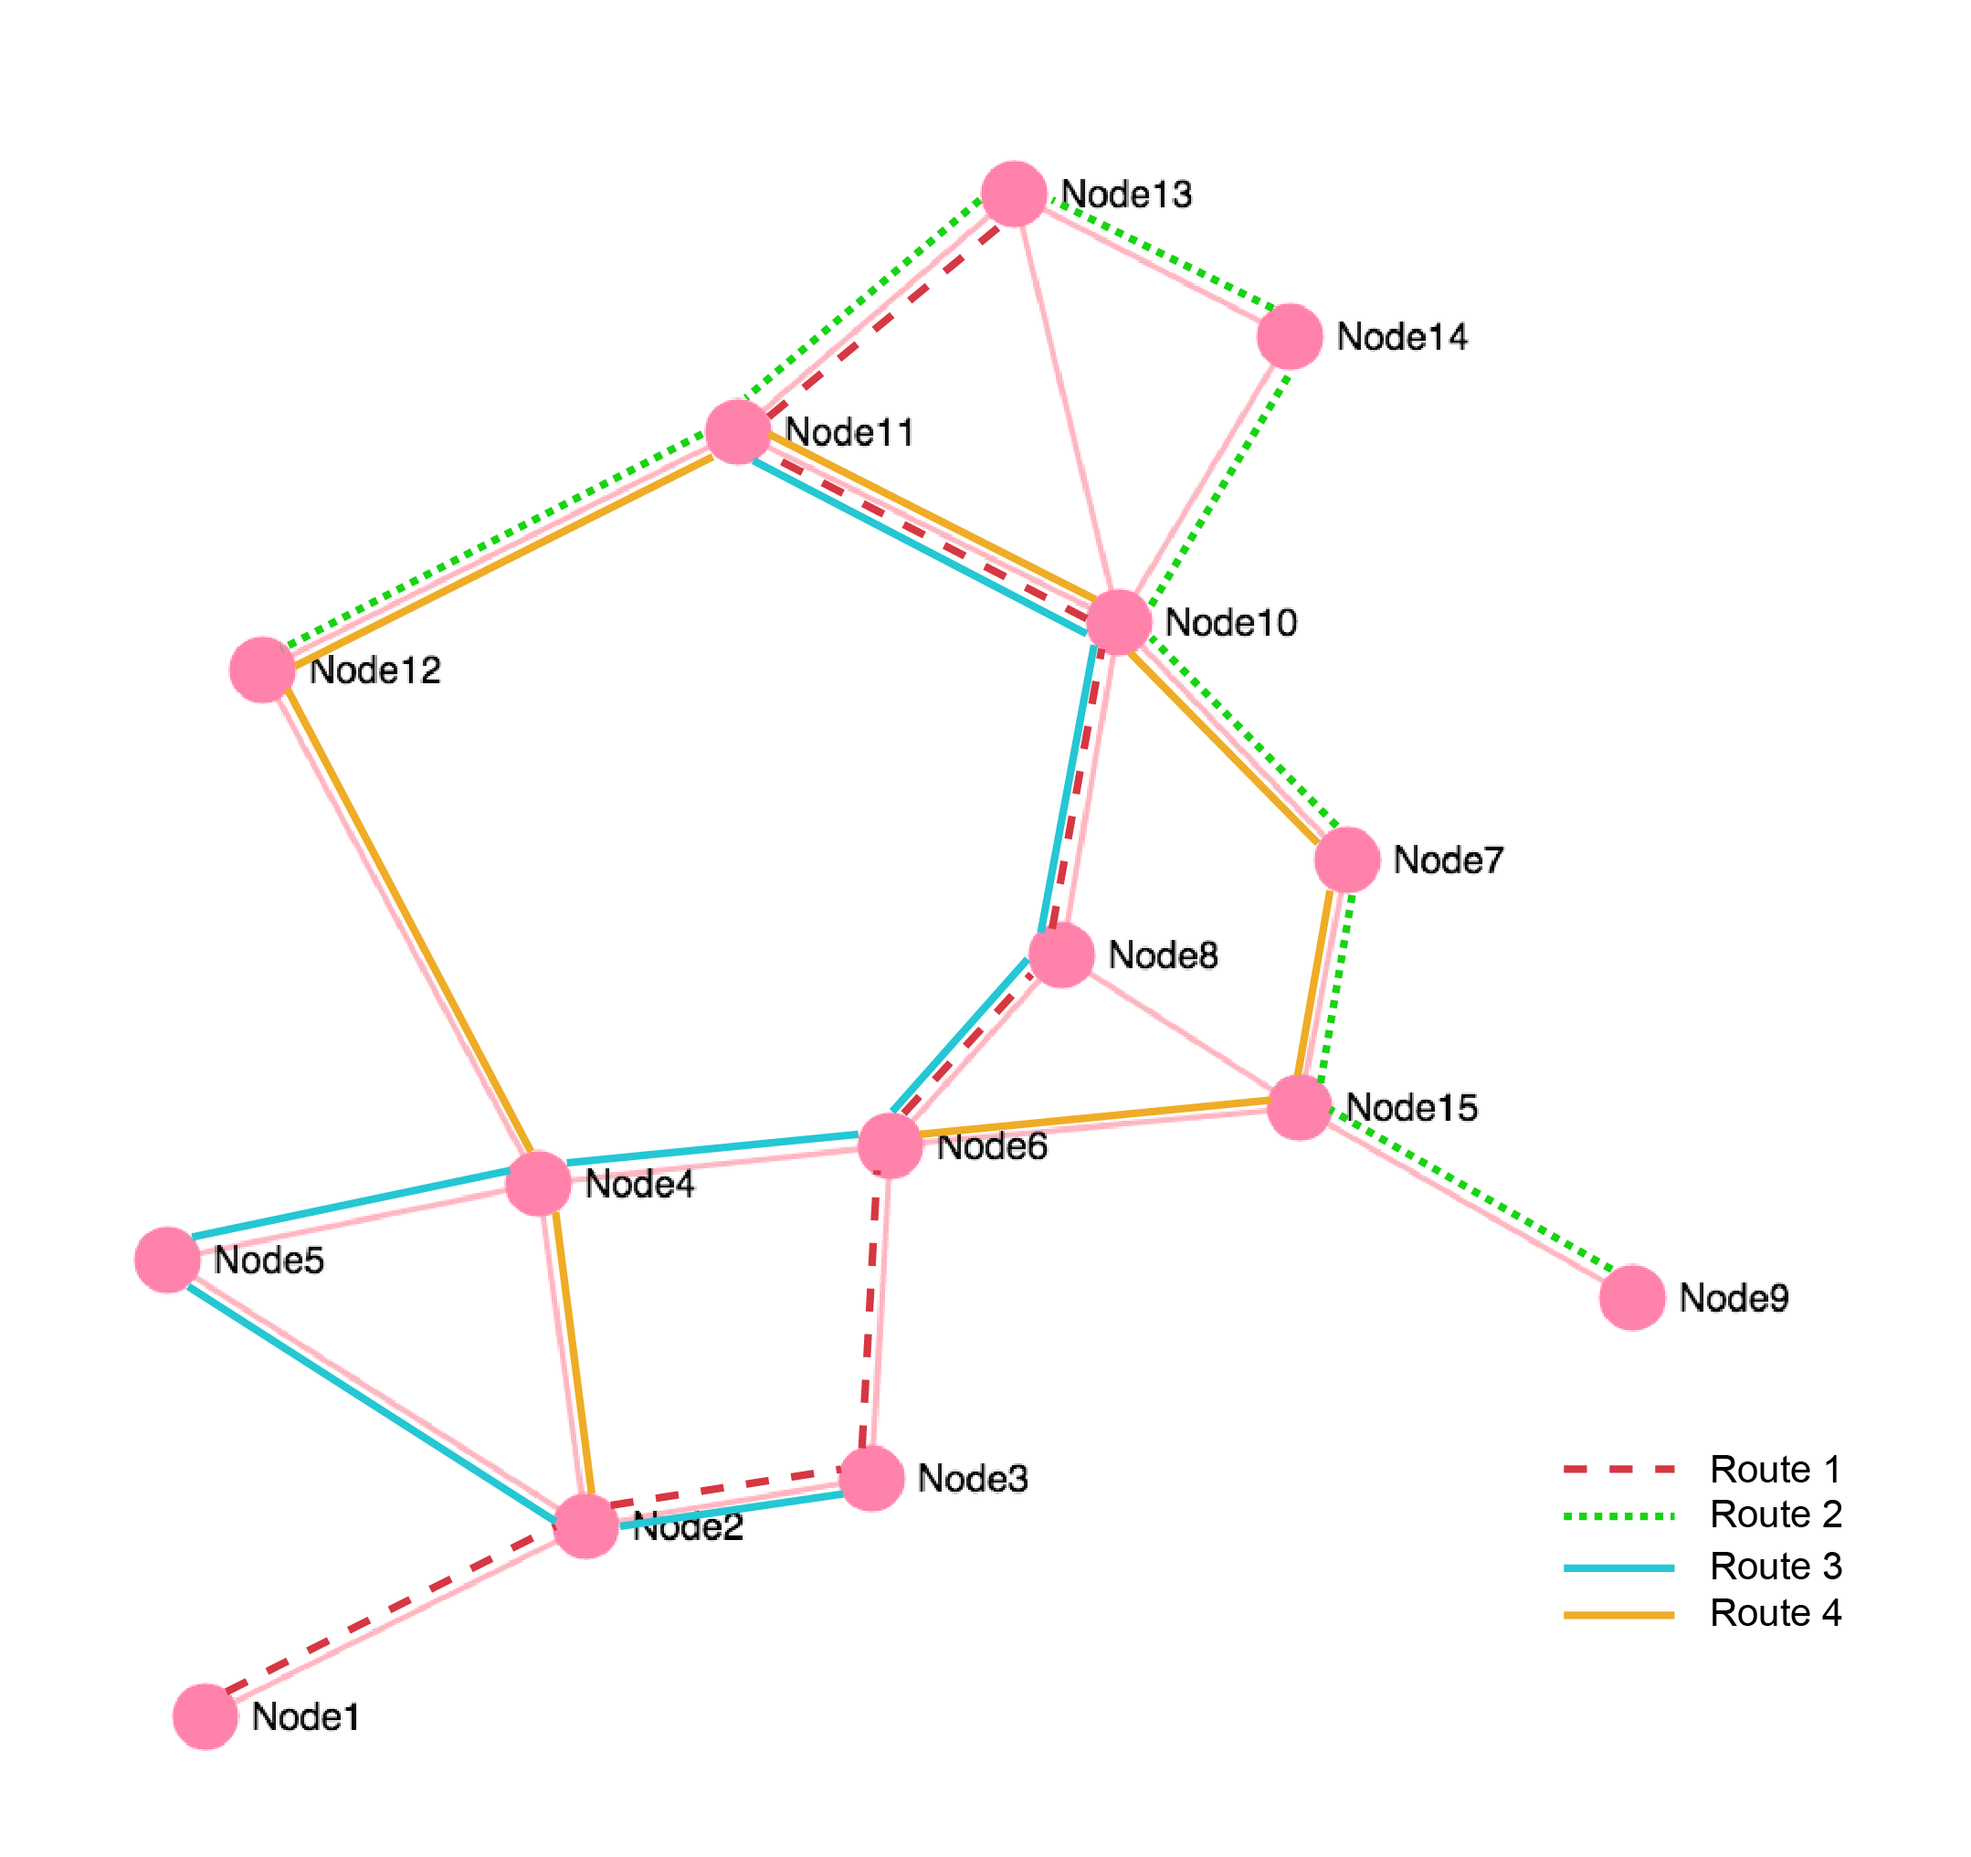
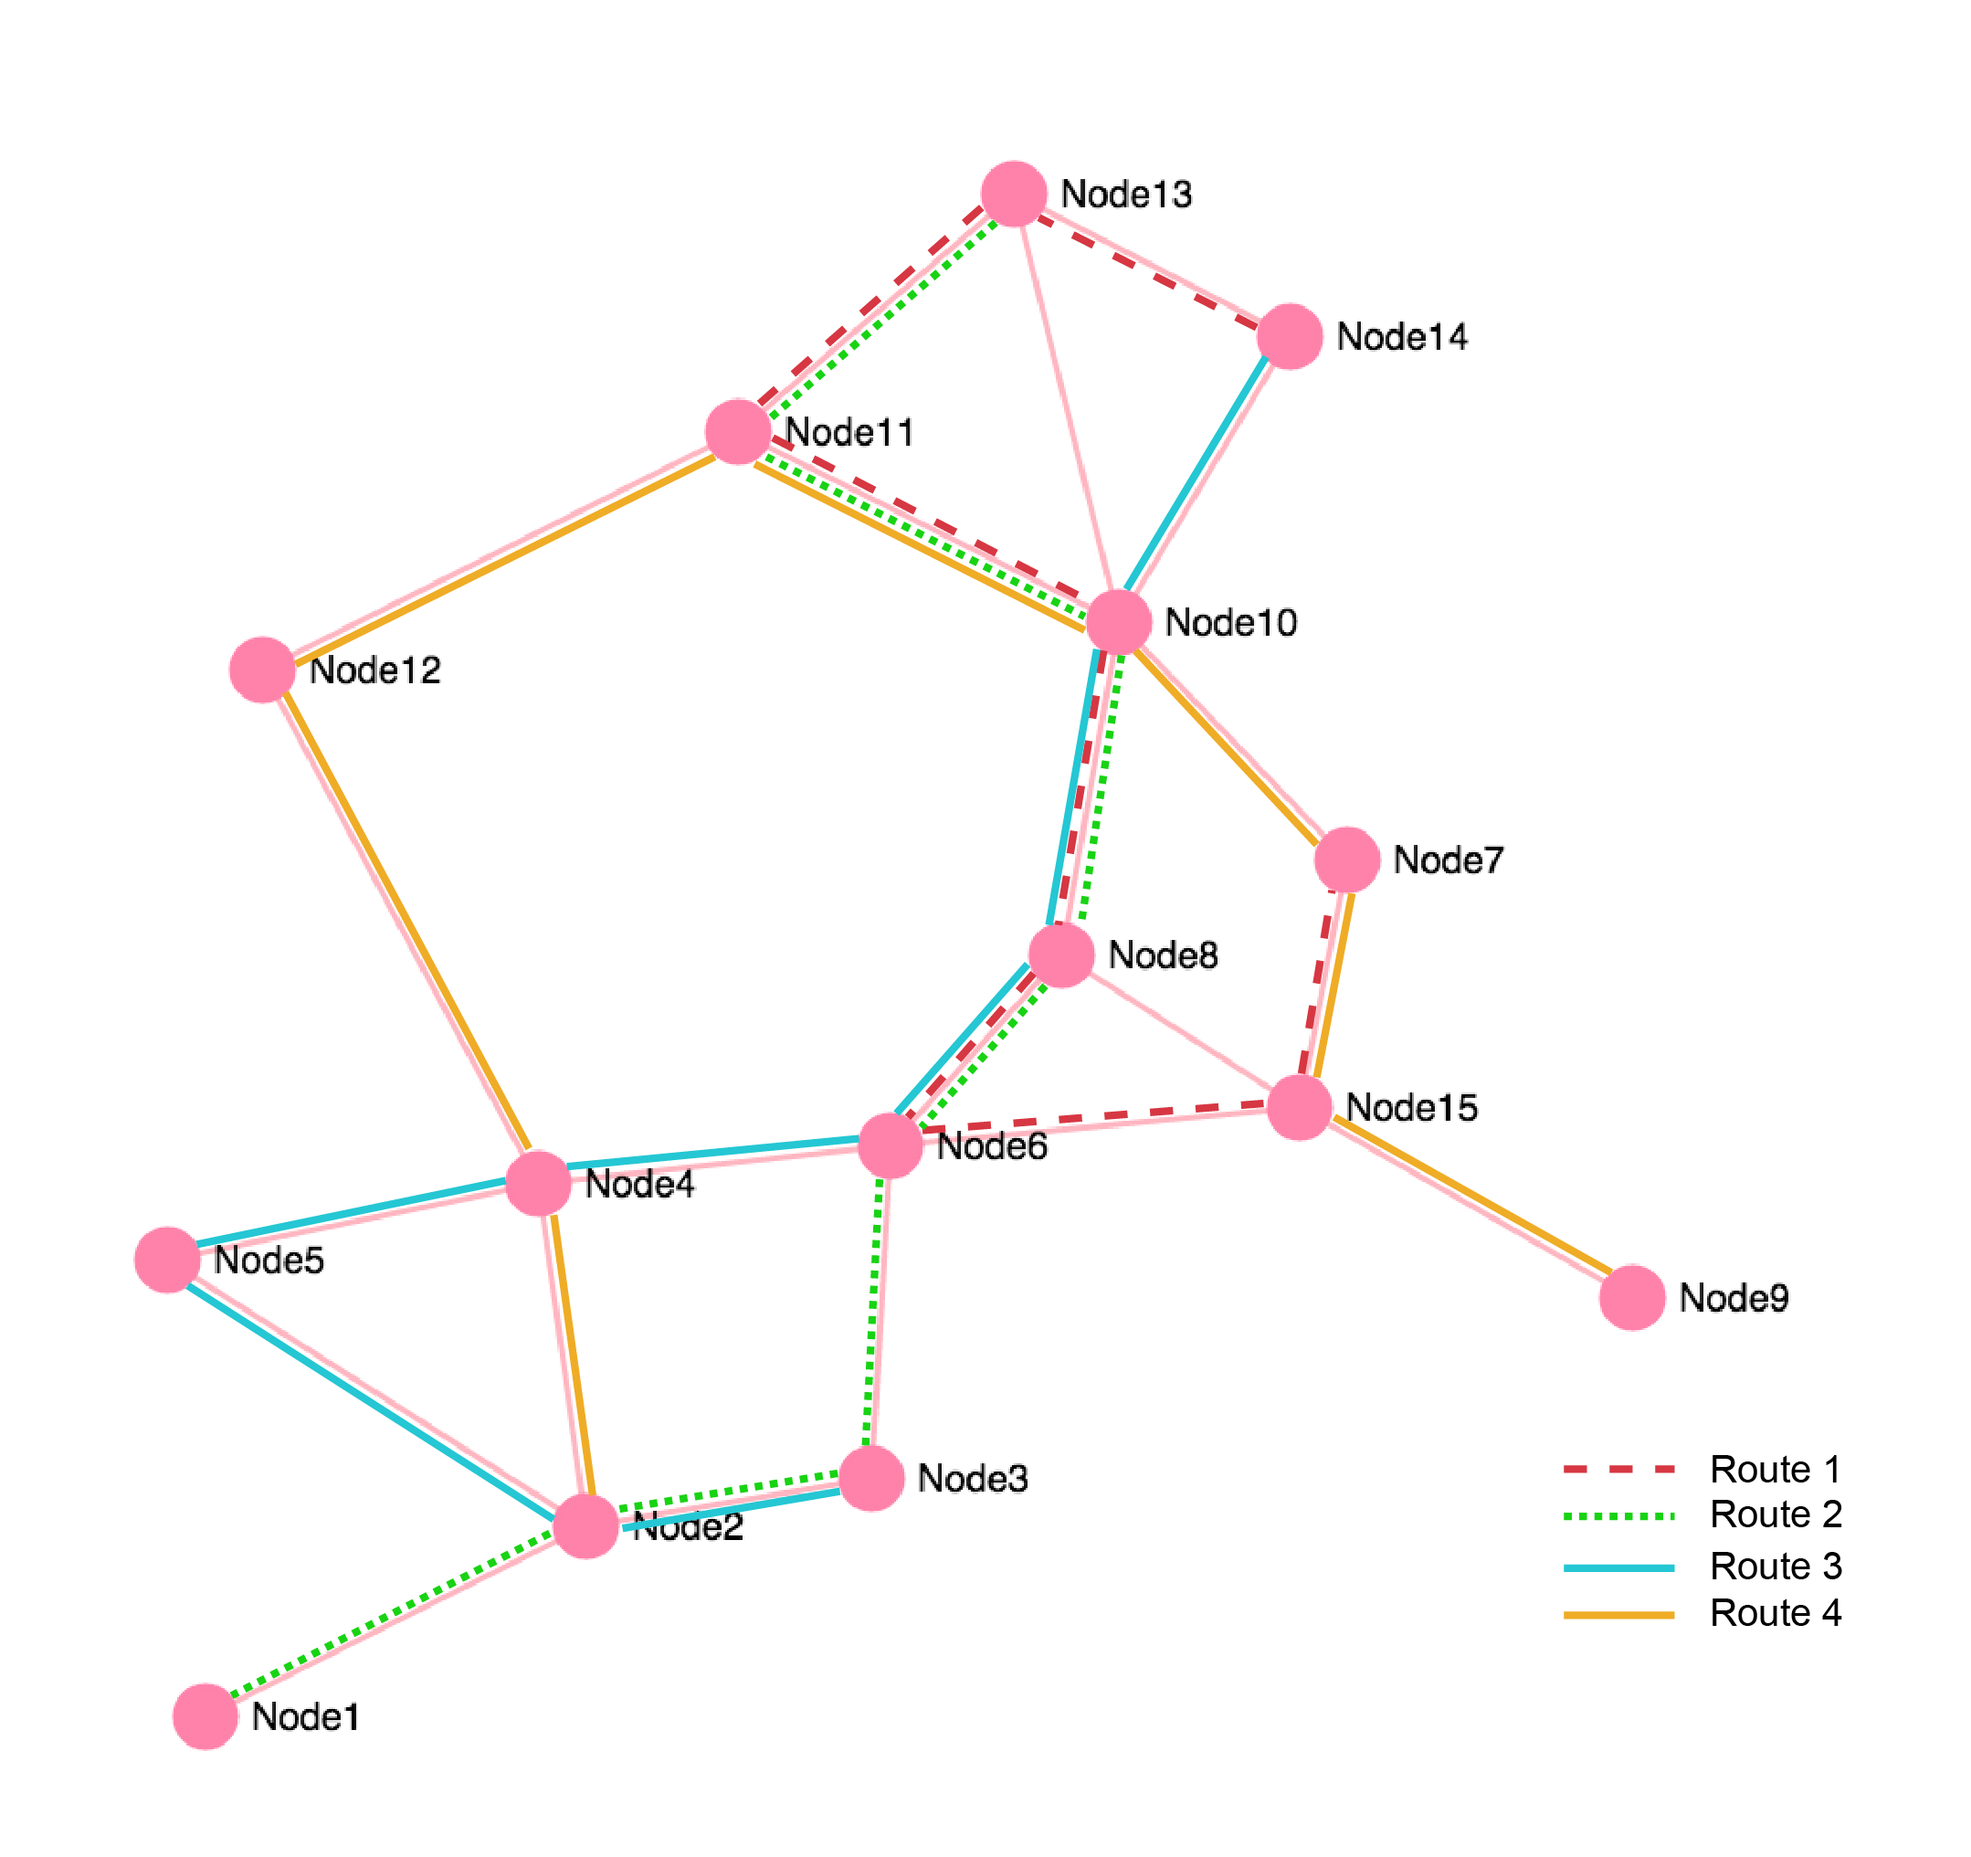
new graphs

diff --git a/thesis/chapters/experimentsAndResults/experimentalResults_performanceComparison.tex b/thesis/chapters/experimentsAndResults/experimentalResults_performanceComparison.tex
@@ -3,7 +3,7 @@
 
 %---------------------- ACO VS SSO ---------------------
 
-Table \vref{table:performanceComparison_ACOSSOBEST} shows the average produced results, concerning the performance criteria, of the proposed algorithm and the plain ACO implementation. Representation of the best route set, having for routes, produced by SSO is seen in Table \vref{table:performanceComparison_bestRouteSet4}.  Representation of the best route set, having for routes, produced by ACO is found in \vref{table:performanceComparison_bestRouteSet4_ACO}. Best, worst, average, median, STD and RSTD produced results is presented in Table \vref{table:performanceComparison_ACOFull}.
+Table \vref{table:performanceComparison_ACOSSOBEST} shows the average produced results, concerning the performance criteria, of the proposed algorithm and the plain ACO implementation. Representation of the best route set, having for routes, produced by SSO is seen in Table \vref{table:performanceComparison_bestRouteSet4}.  Representation of the best route set, having for routes, produced by ACO is found in \vref{table:performanceComparison_bestRouteSet4_ACO}. Best, worst, average, and median produced results in addition to the STD is presented in Table \vref{table:performanceComparison_ACOFull}.
 
     \begin{table}[H]
     \centering
@@ -11,14 +11,13 @@ Table \vref{table:performanceComparison_ACOSSOBEST} shows the average produced r
     \hline
     Algorithm & $d_0(\%)$ & $d_1(\%)$ & $d_2(\%)$ & $d_{unsat}(\%)$ & $ATT$ \\
     \hline
-    ACO Average & 72.14 & 24.00 & 3.66 & 0.20 & 11.97 \\
+    ACO Average & 81.92 & 16.13 & 1.86 & 0.09 & 10.43\\
     \hline
-    SSO Average & 77.67 & 19.90 & 2.38 & 0.04 & 11.25 \\
+    SSO Average & 85.21 & 13.49 & 1.30 & 0.00 & 10.27\\
     \hline
     \end{tabular}
-    \caption {Comparing the best route set of ACO and SSO, having four routes.}
-    
-   % 100 Monte Carlo runs
+    \caption {Comparing the best route set of a plain ACO implementation (ACO) and the proposed algorithm (SSO), having four routes.}
+    % 50 runs
     \label{table:performanceComparison_ACOSSOBEST}
     \end{table}
 
@@ -26,15 +25,15 @@ Table \vref{table:performanceComparison_ACOSSOBEST} shows the average produced r
 
 %-------------------- 4 route sets ---------------------
 
-%Best Ants Route: {[1,2,3,6,8,10,11,12,][9,15,7,10,14,13,11,12,][3,2,5,4,6,8,10,11,][6,15,7,10,11,12,4,2,]}
+%Best Ants Route: {[14,13,11,10,8,6,15,7,][1,2,3,6,8,10,11,12,][14,10,8,6,4,5,2,3,][9,15,7,10,11,12,4,2,]}
 \begin{table}[H]
     \centering
     \begin{tabular}{|l|llllllll|}
     \hline
-    Route 1: & 1 & 2 & 3 & 6 & 8 & 10 & 11 & 12 \\
-    Route 2: & 9 & 15 & 7 & 10 & 14 & 13 & 11 & 12 \\
-    Route 3: & 3 & 2 & 5 & 4 & 6 & 8 & 10 & 11 \\
-    Route 4: & 6 & 15 & 7 & 10 & 11 & 12 & 4 & 2 \\
+    Route 1: & 14 & 13 & 11 & 10 & 8 & 6 & 15 & 7 \\
+    Route 2: & 1 & 2 & 3 & 6 & 8 & 10 & 11 & 12 \\
+    Route 3: & 14 & 10 & 8 & 6 & 4 & 5 & 2 & 3 \\
+    Route 4: & 9 & 15 & 7 & 10 & 11 & 12 & 4 & 2 \\
 	\hline
     \end{tabular}
     \caption {Representation of the best route set, having four routes, constructed by the proposed algorithm.}
@@ -72,16 +71,15 @@ Table \vref{table:performanceComparison_4} presents the results produced by the 
     \citet{chew12} best & 93.71 & 6.29 & 0.00 & 0.00 & 10.82 \\
 	\hline
     \hline
-    SSO Best & 88.12 & 10.53 & 1.35 & 0.00 & 10.69 \\
-    SSO Average & 77.67 & 19.90 & 2.38 & 0.04 & 11.25 \\
-    SSO Median & 77.87 & 20.04 & 2.12 & 0.00 & 11.23 \\
-    SSO Worst & 68.98 & 24.53 & 6.48 & 0.00 & 11.88 \\
-    SSO Standard Deviation & 3.37 & 3.43 & 1.34 & 0.09 & 0.19 \\
-    SSO Relative Standard Deviation & 4.34\% & 17.22\% & 56.12\% & 223.61\% & 1.67\% \\
+    SSO Best & 87.73 & 10.98 & 1.28 & 0.00 & 10.03\\
+    SSO Average & 85.21 & 13.49 & 1.30 & 0.00 & 10.27\\
+    SSO Median & 85.81 & 13.29 & 1.09 & 0.00 & 10.26\\
+    SSO Worst & 76.56 & 22.16 & 1.28 & 0.00 & 10.01\\
+    SSO Standard Deviation & 2.66 & 2.70 & 0.84 & - & 0.18\\
     %SSO Confidence interval$^b$ & ~ & ~ & ~ & ~ & ~ \\
     \hline
     \end{tabular}
-    \caption {Comparing the best route set, having four routes, produced by the proposed algorithm with route sets constructed by other approaches.}
+    \caption {Comparing the best route set, having four routes, produced by the proposed algorithm(SSO) with route sets constructed by other approaches.}
     \begin{itemize}[noitemsep]
     %\item[$^a$:] mintues per user
     \item[$^b$:] 
@@ -90,23 +88,33 @@ Table \vref{table:performanceComparison_4} presents the results produced by the 
     \label{table:performanceComparison_4}
 \end{table}
 
+
 %-------------------- 6 route sets ---------------------
-%Best Ants Route: {[9,15,7,10,14,13,11,12,][13,11,10,8,6,4,5,2,][11,13,10,8,6,3,2,1,][12,11,10,7,15,6,3,2,][1,2,4,12,11,10,7,15,][12,4,5,2,3,6,8,15,]}
+%Best Ants Route: {[12,11,10,13,14,][9,15,7,10,14,13,11,12,][7,10,8,6,4,5,2,3,][1,2,3,6,8,10,11,13,][1,2,4,6,3,][14,13,10,7,15,6,4,12,]}
     \begin{table}[H]
     \centering
     \begin{tabular}{|l|l l l l l l l l|}
     \hline
-    Route 1: & 9 & 15 & 7 & 10 & 14 & 13 & 11 & 12 \\
-    Route 2: & 13 & 11 & 10 & 8 & 6 & 4 & 5 & 2 \\
-    Route 3: & 11 & 13 & 10 & 8 & 6 & 3 & 2 & 1 \\
-    Route 4: & 12 & 11 & 10 & 7 & 15 & 6 & 3 & 2 \\
-    Route 5: & 1 & 2 & 4 & 12 & 11 & 10 & 7 & 15 \\
-    Route 6: & 12 & 4 & 5 & 2 & 3 & 6 & 8 & 15 \\
+    Route 1: & 12 & 11 & 10 & 13 & 14 &  &  &  \\
+    Route 2: & 9 & 15 & 7 & 10 & 14 & 13 & 11 & 12 \\
+    Route 3: & 7 & 10 & 8 & 6 & 4 & 5 & 2 & 3 \\
+    Route 4: & 1 & 2 & 3 & 6 & 8 & 10 & 11 & 13 \\
+    Route 5: & 1 & 2 & 4 & 6 & 3 &  &  &  \\
+    Route 6: & 14 & 13 & 10 & 7 & 15 & 6 & 4 & 12 \\
     \hline
     \end{tabular}
     \caption {The best route set, having six routes}
     \label{table:performanceComparison_bestRouteSet6}
     \end{table}
+
+
+    \begin{figure}[H]
+    \begin{center}
+    \includegraphics[width=4in]{assets/mandlnetwork_6routes.png}
+    \end{center}
+    \caption{Illustration of the best route set, having six routes, constructed by the proposed algorithm (Mandl's transit network as a graph)}
+    \label{fig:bestRouteSet4} 
+\end{figure}
 
     \begin{table}[H]
     \centering
@@ -129,12 +137,11 @@ Table \vref{table:performanceComparison_4} presents the results produced by the 
     \citet{baaj91} & 78.61 & 21.39 & 0.00 & 0.00 & 11.86 \\
     \hline
     \hline
-    SSO Best & 92.04 & 7.06 & 0.83 & 0.06 & 10.44 \\
-    SSO Average & 86.53 & 12.40 & 1.06 & 0.02 & 10.73 \\
-    SSO Median & 86.54 & 12.04 & 1.03 & 0.0 & 10.75 \\
-    SSO Worst & 82.21 & 17.21 & 0.58 & 0.00 & 10.92 \\
-    SSO Standard Deviation & 2.10 & 2.24 & 0.66 & 0.05 & 0.11 \\
-    SSO Relative Standard Deviation & 2.43\% & 8.08\% & 62.85\% & 268.74\% & 1.02\% \\
+    SSO Best & 89.53 & 9.25 & 1.22 & 0.00 & 10.03\\
+    SSO Average & 87.17 & 12.0 & 0.82 & 0.01 & 10.11\\
+    SSO Median & 87.93 & 10.98 & 0.77 & 0.00 & 10.03\\
+    SSO Worst & 82.47 & 17.41 & 0.13 & 0.00 & 10.03\\
+    SSO Standard Deviation & 2.74 & 2.78 & 0.63 & 0.02 & 0.14\\
     \hline
     \end{tabular}
     \caption {Comparing the best route set, having six routes, produced by the proposed algorithm with route sets constructed by other approaches.}
@@ -256,7 +263,23 @@ Table \vref{table:performanceComparison_4} presents the results produced by the 
     6 & 1049.0 & 1217.28 & 1214.5 & 1436.0 & 82.22 \\
     \hline
     \end{tabular}
+    \caption {Executing time (in seconds) of SSO for route set designs with four, six,  \emph{\color{blue} gammel algorithme}}
+    \label{table:performanceComparison_runtimeOld}
+\end{table}
+
+\begin{table}[H]
+    \centering
+    \begin{tabular}{|l||l|}
+    \hline
+    Number of routes & AVG seconds\\
+    \hline
+    4 & 673.02 \\
+    6 & 2442.12  \\
+    \hline
+    \end{tabular}
     \caption {Executing time (in seconds) of SSO for route set designs with four, six, }
-   % 100 Monte Carlo runs
     \label{table:performanceComparison_runtime}
-    \end{table}
+\end{table}
+
+Table \vref{table:performanceComparison_runtime} shows the average runtime for each run with 50 runs.
+

diff --git a/thesis/appendices/experimentsResultsAppendix.tex b/thesis/appendices/experimentsResultsAppendix.tex
@@ -1,7 +1,7 @@
 \chapter{Experimental Results}
 \label{appendixC}
 
-\section{Parameter Settings}
+\section{Parameter Settings Results}
 %VOL 1 testing:
 
 %SIDEWAYS
@@ -94,16 +94,16 @@
 \end{table}
 
 
-\section{Performance Comparison}
-
+\section{Performance Comparison Results}
+%Best Ants Route: {[6,8,15,7,10,11,12,4,][1,2,3,6,8,15,9,][1,2,4,12,11,13,14,10,][1,2,5,4,6,8,10,11,]}
 \begin{table}[H]
     \centering
     \begin{tabular}{|l|llllllll|}
     \hline
-    %Route 1: & 1 & 2 & 5 & 4 & 6 & 8 & 10 & 7 \\
-    %Route 2: & 1 & 2 & 3 & 6 & 8 & 15 & 7 & 10 \\
-    %Route 3: & 12 & 11 & 10 & 14 & 13 &  &  & \\
-    %Route 4: & 9 & 15 & 7 & 10 & 11 & 12 & 4 & 2 \\
+    Route 1: & 6 & 8 & 15 & 7 & 10 & 11 & 12 & 4 \\
+    Route 2: & 1 & 2 & 3 & 6 & 8 & 15 & 9 &  \\
+    Route 3: & 1 & 2 & 4 & 12 & 11 & 13 & 14 & 10 \\
+    Route 4: & 1 & 2 & 5 & 4 & 6 & 8 & 10 & 11 \\
     \hline
     \end{tabular}
     \caption {Representation of the best route set, having four routes, constructed by ACO}
@@ -117,23 +117,21 @@
     \hline
     Algorithm & $d_0(\%)$ & $d_1(\%)$ & $d_2(\%)$ & $d_{unsat}(\%)$ & $ATT$ \\
     \hline
-    %ACO Best & 86.16 & 12.59 & 2.25 & 0.00 & 11.16 \\
-    %ACO Average & 72.14 & 24.00 & 3.66 & 0.20 & 11.97 \\
-    %ACO Median & 72.67 & 23.57 & 3.37 & 0.00 & 11.77 \\
-    %ACO Worst & 54.79 & 35.13 & 10.08 & 0.00 & 11.97 \\
-    %ACO Standard Deviation & 6.22 & 5.40 & 2.26 & 0.52 & 0.62 \\
-    %ACO Relative Standard Deviation & 8.62 & 22.49 & 61.73 & 255.31 & 5.18 \\
+    ACO Best & 84.07 & 15.03 & 0.90 & 0.00 & 10.08\\
+    ACO Average & 81.92 & 16.13 & 1.86 & 0.09 & 10.43\\
+    ACO Median & 82.66 & 15.29 & 1.16 & 0.00 & 10.42\\
+    ACO Worst & 64.93 & 21.19 & 11.5 & 2.38 & 10.79\\
+    ACO Standard Deviation & 4.87 & 3.75 & 1.83 & 0.37 & 0.32\\
     \hline
     \hline
-    %SSO Best & 88.44 & 10.28 & 1.29 & 0.00 & 10.67 \\
-    %SSO Average & 77.32 & 20.15 & 2.47 & 0.07 & 11.27 \\
-    %SSO Median & 77.14 & 20.49 & 2.25 & 0.00 & 11.26 \\
-    %SSO Worst & 68.77 & 28.84 & 2.25 & 0.13 & 11.67 \\
-    %SSO Standard Deviation & 3.91 & 3.60 & 1.36 & 0.19 & 0.22 \\
-    %SSO Relative Standard Deviation & 5.06\% & 17.85\% & 55.16\% & 291.28\% & 1.97\% \\
+    SSO Best & 87.73 & 10.98 & 1.28 & 0.00 & 10.03\\
+    SSO Average & 85.21 & 13.49 & 1.30 & 0.00 & 10.27\\
+    SSO Median & 85.81 & 13.29 & 1.09 & 0.00 & 10.26\\
+    SSO Worst & 76.56 & 22.16 & 1.28 & 0.00 & 10.01\\
+    SSO Standard Deviation & 2.66 & 2.70 & 0.84 & - & 0.18\\
     \hline
     \end{tabular}
-    \caption {Comparing the route sets of ACO and SSO, having four routes, all results}
+    \caption {Comparing the route sets of ACO and ACO, having four routes, all results}
    % 100 Monte Carlo runs
     \label{table:performanceComparison_ACOFull}
     \end{table}

diff --git a/thesis/chapters/evaluationAndConclusion/evaluatingExperimentalResults.tex b/thesis/chapters/evaluationAndConclusion/evaluatingExperimentalResults.tex
@@ -12,8 +12,27 @@ Figure \vref{fig:acovssso} shows the average growth in the TOTFIT value for each
 
 ACO stuck at local optima. As seen in Figure \vref{fig:acovssso} SSO manage too get out of local optima. Notion of global best solution, crazy ants, following ants reward best edges, memory etc.
 
+ \begin{table}[H]
+    \centering
+    \begin{tabular}{|l||l|l|l|l|l|}
+    \hline
+    Route Set & $d_0(\%)$ & $d_1(\%)$ & $d_2(\%)$ & $d_{unsat}(\%)$ & $ATT$ \\
+    \hline
+    4 & 81.92 & 16.13 & 1.86 & 0.09 & 10.43\\
+    \hline
+    6 & 87.17 & 12.0 & 0.82 & 0.01 & 10.11\\
+    \hline
+    7 \\
+    \hline
+    \end{tabular}
+    \caption {Evaluating increase of Route Sets}
+    % 50 runs
+    \label{table:performanceComparison_ACOSSOBEST}
+    \end{table}
+
 \subsection{Evaluating Scalability Results}
 \subsection{Evaluating Neo4J}
+Limitations
 
 %Metaheuristics, like ACO, requires a good initial parameter setting to solve concrete problems optimally. As mentioned in the 
 

diff --git a/thesis/chapters/experimentsAndResults/experimentalResults_scalability.tex b/thesis/chapters/experimentsAndResults/experimentalResults_scalability.tex
@@ -12,7 +12,7 @@
         
         \hline
     \end{tabular}
-    \caption{Mumford0 execution time in seconds, method1 vs method2}
+    \caption{Mumford0 execution time in seconds, method1 vs method2 \emph{\color{blue} gammel algorithme}}
     \label{table:results_mumford}
 \end{table}
 
